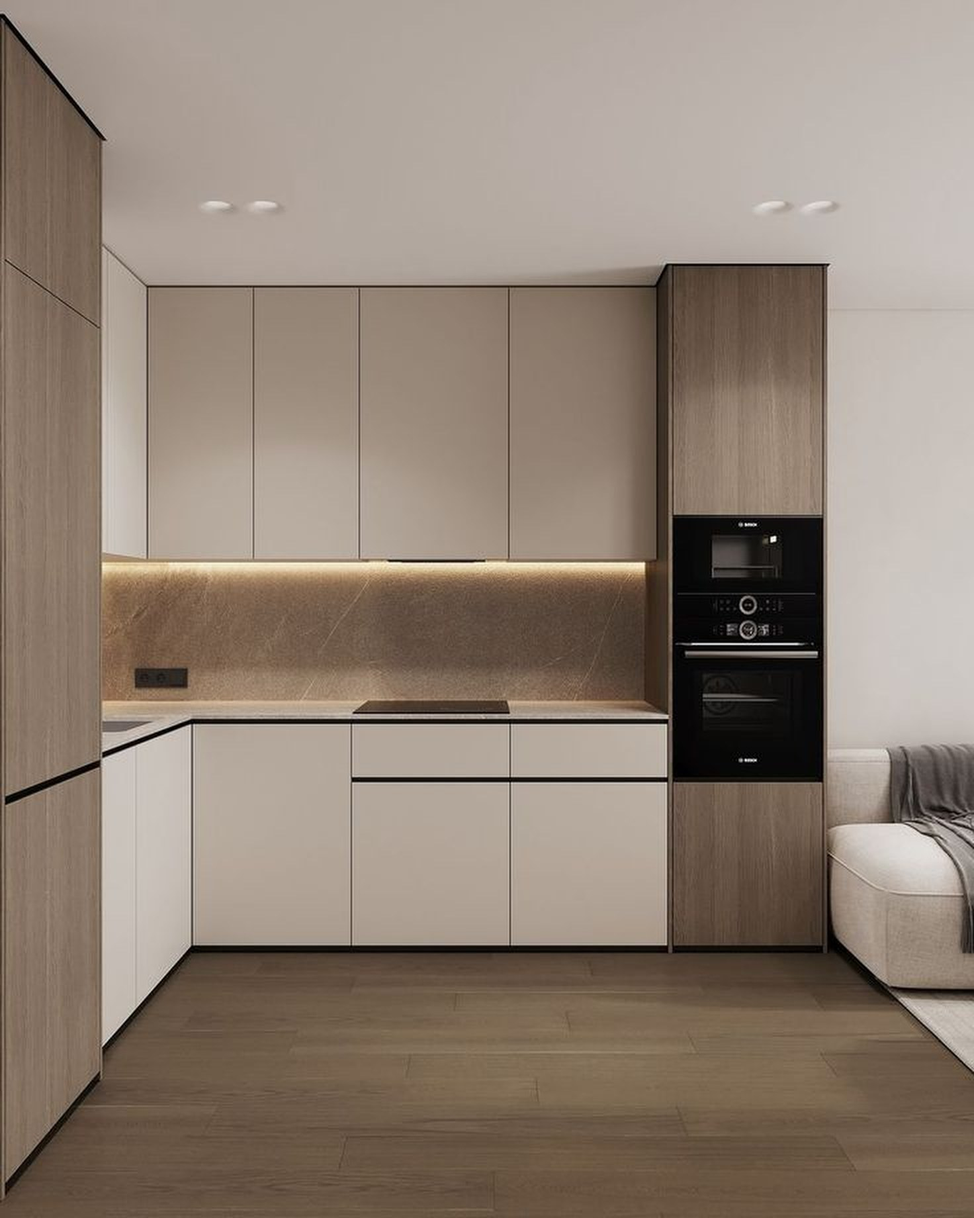
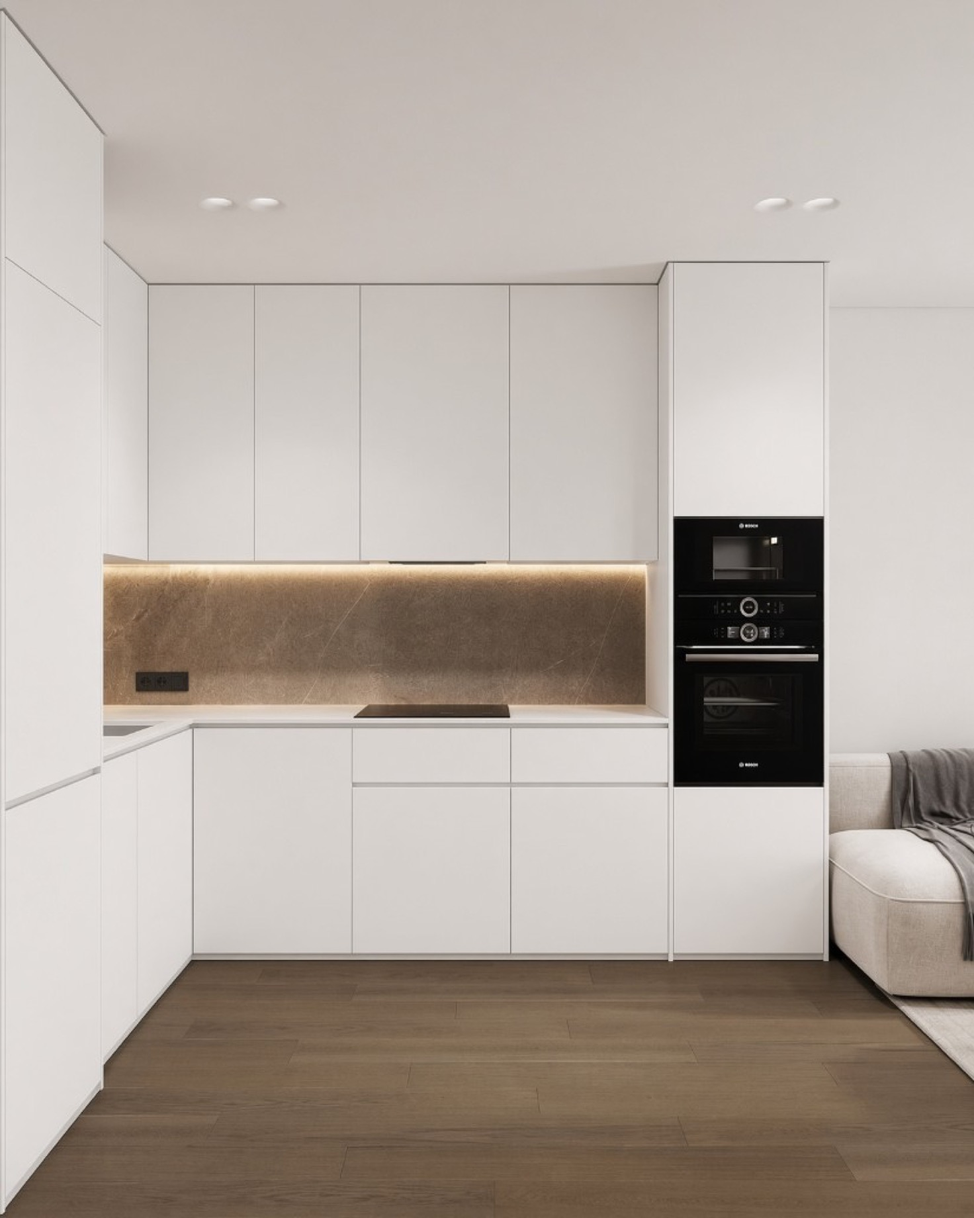
выбор фасадов на кухне

diff --git a/src/components/scene/KitchenTryOn.tsx b/src/components/scene/KitchenTryOn.tsx
@@ -2,9 +2,10 @@
 
 import { useEffect, useRef, useState } from "react";
 import { LeadForm } from "@/components/LeadForm";
+import { facades } from "@/lib/catalog";
 import { backsplashes, scenes, worktops, type KitchenScene, type Surface } from "@/lib/scenes";
 import ColorPicker from "@/components/ColorPicker";
-import { DemoPhotoBadge } from "@/components/InDevelopment";
+import { DemoPhotoBadge, DevPlaceholder } from "@/components/InDevelopment";
 import { swatchById } from "@/lib/palette";
 import { hexToLinear, prepare, render, type Prepared, type Target } from "@/lib/recolor";
 
@@ -28,6 +29,17 @@ function readPixels(img: HTMLImageElement): ImageData {
 
 const target = (hex: string | null, contrast: number, grain = false): Target | null =>
   hex ? { linear: hexToLinear(hex), contrast, grain } : null;
+
+/** Прямой фасад — базовое фото. Остальные — каталог фрезеровок, фото лежит в scene.variants. */
+const millings = [
+  { slug: "pryamoy", name: "Прямой" },
+  ...facades.filter((f) => f.category === "milled").map((f) => ({ slug: f.slug, name: f.name })),
+];
+
+function millingPhoto(scene: KitchenScene, slug: string): string | null {
+  if (slug === "pryamoy") return scene.base;
+  return scene.variants?.[slug] ?? null;
+}
 
 export default function KitchenTryOn() {
   const [sceneId, setSceneId] = useState(scenes[0].id);
@@ -62,8 +74,10 @@ function Stage({ scene }: { scene: KitchenScene }) {
   const canvasRef = useRef<HTMLCanvasElement>(null);
   const outRef = useRef<ImageData | null>(null);
   const [prepared, setPrepared] = useState<Prepared | null>(null);
+  const [preparedFor, setPreparedFor] = useState<string | null>(null);
   const [failed, setFailed] = useState(false);
 
+  const [millingSlug, setMillingSlug] = useState("pryamoy");
   const [facadeId, setFacadeId] = useState<string | null>(null);
   const [worktopId, setWorktopId] = useState("orig");
   const [backsplashId, setBacksplashId] = useState("orig");
@@ -71,27 +85,33 @@ function Stage({ scene }: { scene: KitchenScene }) {
   const [prefill, setPrefill] = useState("");
 
   // null — фасады как на фото
+  const milling = millings.find((m) => m.slug === millingSlug) ?? millings[0];
+  const photo = millingPhoto(scene, milling.slug);
   const facade = facadeId ? swatchById(facadeId) : null;
   const worktop = worktops.find((s) => s.id === worktopId)!;
   const backsplash = backsplashes.find((s) => s.id === backsplashId)!;
   const accent = accentId ? swatchById(accentId) : null;
 
   useEffect(() => {
+    if (!photo) return;
     let cancelled = false;
+    const src = photo;
     Promise.all([
-      loadImage(scene.base),
+      loadImage(src),
       loadImage(scene.masks),
       scene.masks2 ? loadImage(scene.masks2) : Promise.resolve(null),
     ])
       .then(([base, masks, accentMask]) => {
         if (cancelled) return;
+        setFailed(false);
         setPrepared(prepare(readPixels(base), readPixels(masks), accentMask ? readPixels(accentMask) : undefined));
+        setPreparedFor(src);
       })
       .catch(() => !cancelled && setFailed(true));
     return () => {
       cancelled = true;
     };
-  }, [scene]);
+  }, [scene, photo]);
 
   useEffect(() => {
     const canvas = canvasRef.current;
@@ -116,7 +136,7 @@ function Stage({ scene }: { scene: KitchenScene }) {
     ctx.putImageData(outRef.current, 0, 0);
   }, [prepared, facade, worktop, backsplash, accent]);
 
-  const summary = `Фасады: ${facade ? `${facade.code} ${facade.name}` : "как на фото"}; столешница: ${worktop.name}; фартук: ${backsplash.name}${scene.masks2 ? `; акцент: ${accent ? `${accent.code} ${accent.name}` : "как на фото"}` : ""}`;
+  const summary = `Фрезеровка: ${milling.name}; фасады: ${facade ? `${facade.code} ${facade.name}` : "как на фото"}; столешница: ${worktop.name}; фартук: ${backsplash.name}${scene.masks2 ? `; акцент: ${accent ? `${accent.code} ${accent.name}` : "как на фото"}` : ""}`;
 
   return (
     <div>
@@ -127,15 +147,20 @@ function Stage({ scene }: { scene: KitchenScene }) {
         >
           {/* Исходное фото видно сразу и без JS; канвас с перекраской ложится поверх */}
           {/* eslint-disable-next-line @next/next/no-img-element */}
-          <img src={scene.base} alt={scene.alt} width={scene.width} height={scene.height} className="absolute inset-0 h-full w-full" />
+          <img src={photo ?? scene.base} alt={scene.alt} width={scene.width} height={scene.height} className="absolute inset-0 h-full w-full" />
           <canvas
             ref={canvasRef}
             width={scene.width}
             height={scene.height}
             aria-hidden
-            className={`absolute inset-0 h-full w-full transition-opacity duration-300 ${prepared ? "opacity-100" : "opacity-0"}`}
+            className={`absolute inset-0 h-full w-full transition-opacity duration-300 ${prepared && preparedFor === photo ? "opacity-100" : "opacity-0"}`}
           />
           <DemoPhotoBadge className="left-3 top-3" />
+          {!photo && (
+            <div className="absolute inset-0 z-20">
+              <DevPlaceholder />
+            </div>
+          )}
           {failed && (
             <p className="absolute inset-x-0 bottom-0 bg-cocoa/80 p-3 text-center text-sm text-white">
               Не удалось загрузить примерочную. Попробуйте обновить страницу.
@@ -144,6 +169,30 @@ function Stage({ scene }: { scene: KitchenScene }) {
         </div>
 
         <div className="grid gap-8">
+          <Group title="Фрезеровка" hint={milling.name}>
+            {millings.map((m) => {
+              const ready = millingPhoto(scene, m.slug) !== null;
+              const active = m.slug === milling.slug;
+              return (
+                <button
+                  key={m.slug}
+                  type="button"
+                  role="radio"
+                  aria-checked={active}
+                  title={ready ? m.name : "Недоступно в демо-режиме"}
+                  onClick={() => {
+                    setFailed(false);
+                    setMillingSlug(m.slug);
+                  }}
+                  className={`rounded-full border px-4 py-2 text-sm font-medium transition-colors ${
+                    active ? "border-cocoa bg-cocoa text-white" : "border-cocoa/15 hover:border-cocoa"
+                  }`}
+                >
+                  {m.name}
+                </button>
+              );
+            })}
+          </Group>
           <div>
             <h2 className="mb-3 text-xs font-semibold uppercase tracking-[0.16em] text-cocoa/60">Цвет фасадов</h2>
             <ColorPicker value={facadeId} allowCustom={false} onChange={setFacadeId} onReset={() => setFacadeId(null)} />
@@ -183,7 +232,7 @@ function Stage({ scene }: { scene: KitchenScene }) {
         <div>
           <h2 className="text-3xl font-semibold leading-tight tracking-tight text-cocoa">Рассчитать стоимость</h2>
           <p className="mt-4 max-w-sm text-cocoa/70">
-            Выбранные цвета подставятся в заявку. Размеры и фрезеровку уточним по телефону.
+            Выбранные фрезеровка и цвета подставятся в заявку. Размеры уточним по телефону.
           </p>
         </div>
         <LeadForm key={prefill} facade={prefill} />

diff --git a/src/lib/review.ts b/src/lib/review.ts
@@ -86,9 +86,9 @@ export const reviewFeatures: ReviewFeature[] = [
     percent: 65,
     step: 5,
     href: "/kitchen",
-    what: "Фото кухни, на котором меняются цвет фасадов, акцентных колонн, столешницы и фартука. Свет и тени сохраняются.",
-    check: ["Реалистичность перекраски", "Нужна ли вам такая функция вообще", "Удобство выбора на телефоне"],
-    todo: ["Две демо-кухни с фото низкого разрешения, права на них не подтверждены", "Меняется только цвет, фрезеровку на фото сменить нельзя", "На очень тёмных и насыщенных цветах возможны артефакты", "На каждую новую кухню нужна ручная разметка"],
+    what: "Фото кухни: смена фрезеровки отдельным кадром, перекраска фасадов, акцентных колонн, столешницы и фартука. Свет и тени сохраняются.",
+    check: ["Реалистичность перекраски", "Кадры «Степ» и «Волна 1» на угловой кухне", "Удобство выбора на телефоне"],
+    todo: ["Две демо-кухни с фото низкого разрешения, права на них не подтверждены", "Со своим фото на угловой кухне только «Степ» и «Волна 1», остальные — «Недоступно в демо-режиме»", "На очень тёмных и насыщенных цветах возможны артефакты", "На каждую новую кухню и фрезеровку нужен свой кадр в том же ракурсе"],
     ask: ["Ваши фото кухонь от 2000 px", "Решение: нужна ли примерочная в первой версии"],
   },
   {

diff --git a/src/lib/offer.ts b/src/lib/offer.ts
@@ -93,9 +93,9 @@ const addonList = [
     group: "tryon",
     title: "Примерочная кухни",
     price: 15000,
-    what: "Страница с двумя готовыми кухнями (угловая и прямая): на фото меняются цвет фасадов, колонн, столешницы и фартука, свет и тени сохраняются.",
-    needs: "Подтверждение прав на фото или свои фото кухонь",
-    risk: "Права на текущие фото не подтверждены. На очень тёмных и насыщенных цветах возможны артефакты: перекраска математическая. Фрезеровку на фото сменить нельзя, меняется только цвет",
+    what: "Страница с двумя готовыми кухнями (угловая и прямая): смена фрезеровки отдельным кадром, перекраска фасадов, колонн, столешницы и фартука. Свет и тени сохраняются.",
+    needs: "Подтверждение прав на фото или свои фото кухонь. На каждую фрезеровку — кадр в том же ракурсе",
+    risk: "Права на текущие фото не подтверждены. На очень тёмных и насыщенных цветах возможны артефакты: перекраска математическая. В демо на угловой кухне свой кадр у «Степ» и «Волна 1»",
   },
   {
     id: "tryonScene",

diff --git a/src/lib/demoNotes.ts b/src/lib/demoNotes.ts
@@ -47,7 +47,7 @@ export const demoNotes = {
     what: "Фото кухни, на котором меняются цвет фасадов, колонн, столешницы и фартука. Свет и тени сохраняются.",
     inBase: "В минимум не входит: платная доработка.",
     addons: ["tryon", "tryonScene"],
-    risks: ["На каждую кухню нужны фото от 2000 px и ручная разметка", "Права на фото не подтверждены", "На очень тёмных и насыщенных цветах возможны артефакты", "Фрезеровку на фото сменить нельзя, меняется только цвет"],
+    risks: ["На каждую кухню нужны фото от 2000 px и ручная разметка", "Права на фото не подтверждены", "На очень тёмных и насыщенных цветах возможны артефакты", "На угловой кухне свой кадр у «Степ» и «Волна 1», остальные фрезеровки в демо недоступны"],
   },
   constructor: {
     title: "Конструктор кухни",

diff --git a/src/app/kitchen/page.tsx b/src/app/kitchen/page.tsx
@@ -17,9 +17,11 @@ export default function KitchenPage() {
         Примерить <span className="text-taupe">на кухне</span>
       </h1>
       <p className="mt-5 mb-10 max-w-xl text-lg text-cocoa/70">
-        Выберите цвет фасадов, столешницу и фартук. Свет и тени на фото остаются настоящими.
+        Выберите фрезеровку, цвет фасадов, столешницу и фартук. Свет и тени на фото остаются настоящими.
       </p>
-      <DemoNotice>В демо доступны две кухни, фото на них временные, над картинками ещё будет работа. Смена фрезеровки на фото в разработке: меняется только цвет.</DemoNotice>
+      <DemoNotice>
+        В демо доступны две кухни, фото на них временные. На угловой кухне можно посмотреть «Степ» и «Волна 1», остальные фрезеровки пока недоступны в демо-режиме.
+      </DemoNotice>
       <KitchenTryOn />
     </div>
   );

diff --git a/src/lib/scenes.ts b/src/lib/scenes.ts
@@ -15,6 +15,11 @@ export type KitchenScene = {
   /** Маска акцентных зон, если они размечены в сцене */
   masks2?: string;
   accentLabel?: string;
+  /**
+   * Другие фото той же кухни: ключ — slug фрезеровки из каталога.
+   * «Прямой» всегда берётся из base. Нет файла — в демо фрезеровка недоступна.
+   */
+  variants?: Record<string, string>;
   width: number;
   height: number;
   alt: string;
@@ -28,6 +33,10 @@ export const scenes: KitchenScene[] = [
     masks: "/scenes/corner-1/masks.png",
     masks2: "/scenes/corner-1/masks2.png",
     accentLabel: "Акцент: колонны",
+    variants: {
+      step: "/scenes/corner-1/step.jpg",
+      "volna-1": "/scenes/corner-1/volna-1.jpg",
+    },
     width: 1472,
     height: 1840,
     alt: "Угловая кухня с светлыми безручковыми фасадами",

diff --git a/docs/kitchen-tryon.md b/docs/kitchen-tryon.md
@@ -6,8 +6,8 @@
 
 Берём фотографию кухни, размечаем на ней зоны и перекрашиваем их в браузере. Свет, тени и швы остаются от оригинального фото, а цвет приходит из палитры. Так выбран **вариант A** из обсуждения: приоритет у фотореализма, а не у точной геометрии.
 
-Что можно менять: основные фасады, акцентные колонны (если размечены), столешницу, фартук.
-Что **нельзя**: фрезеровку, матовое или глянцевое покрытие и отражения. Они зашиты в фото. Для другой фрезеровки нужна отдельная сцена.
+Что можно менять: фрезеровку (если для этой кухни есть отдельное фото), основные фасады, акцентные колонны (если размечены), столешницу, фартук.
+Матовое или глянцевое покрытие и отражения зашиты в фото. Новая фрезеровка — это ещё один файл той же сцены в `variants`, с тем же ракурсом, чтобы подошли уже готовые маски. Если файла нет, примерочная показывает заглушку «В разработке» / «Недоступно в демо-режиме».
 
 ## Как работает перекраска
 
@@ -40,7 +40,7 @@
 - `masks.png`: R — фасады, G — столешница, B — фартук (яркость равна степени принадлежности).
 - `masks2.png`: R — акцентные зоны (необязательно).
 
-Сцены перечислены в `src/lib/scenes.ts` (размеры картинки обязательны). Поле `masks2` включает блок «Акцент» в интерфейсе, `accentLabel` задаёт его заголовок.
+Сцены перечислены в `src/lib/scenes.ts` (размеры картинки обязательны). Поле `masks2` включает блок «Акцент» в интерфейсе, `accentLabel` задаёт его заголовок. Поле `variants` — фото других фрезеровок той же кухни, ключ совпадает со `slug` в каталоге (`step`, `premier`, …). Базовое фото — это прямой фасад. Картинка варианта должна быть того же размера, что `base.jpg`, иначе маска съедет.
 
 ## Как добавить сцену
 
@@ -70,8 +70,8 @@
 
 | id | Название | Исходник | Особенности |
 |---|---|---|---|
-| `corner-1` | Угловая кухня | 736×920, увеличено вдвое | Есть акцентные колонны (шпон) |
-| `straight-1` | Прямая кухня | 564×690 из PDF, увеличено вдвое | Серые фасады, тёмный гранит, без акцентов |
+| `corner-1` | Угловая кухня | 736×920, увеличено вдвое | Есть акцентные колонны (шпон). В `variants`: `step`, `volna-1` (кадры приведены к 1472×1840) |
+| `straight-1` | Прямая кухня | 564×690 из PDF, увеличено вдвое | Серые фасады, тёмный гранит, без акцентов. Отдельных фрезеровок нет |
 
 ## Ограничения
 

diff --git a/docs/mvp.md b/docs/mvp.md
@@ -7,7 +7,7 @@
 - Сайт на Next.js с SSR/статической генерацией страниц: главная, каталог, карточка фасада, примерочная кухни.
 - Каталог из 25 позиций, перенесённых из PDF заказчика: прямой фасад, 13 фрезеровок, 8 вариантов интегрированной ручки, 2 радиусных, столешница.
 - **3D-вьюер для 7 позиций:** прямой, Премьер, Степ, Баден, Кант, Волна 1, Рейки. Фасад строится по профилю сечения; доступны вращение, выбор цвета по вкладкам RAL / NCS / Wood Color / «Подбор» (27 образцов), матовое или глянцевое покрытие, ползунки ширины, высоты и толщины.
-- **Примерочная кухни** с двумя сценами («Угловая кухня», «Прямая кухня»): независимый выбор цвета основных фасадов, акцентных колонн (только в угловой), столешницы и фартука.
+- **Примерочная кухни** с двумя сценами («Угловая кухня», «Прямая кухня»): выбор фрезеровки, цвета основных фасадов, акцентных колонн (только в угловой), столешницы и фартука. В демо со своим фото «Прямой» и на угловой кухне «Степ» и «Волна 1». Остальные фрезеровки показывают заглушку «Недоступно в демо-режиме».
 - Форма заявки с валидацией на сервере и скрытым полем-ловушкой для ботов. В заявку подставляются выбранные фасад или цвета.
 - Дизайн на основе PDF: монохромная палитра, Montserrat, диагональный срез как фирменный мотив. Адаптив проверен на десктопе и в мобильном размере.
 
@@ -33,7 +33,7 @@
 - Фасады в плёнке ПВХ и покраска как отдельные разделы: в PDF нет материалов.
 - Страницы услуг, портфолио, «о производстве».
 - 3D для остальных 18 позиций каталога (см. [facade-3d.md](facade-3d.md)): 7 фрезеровок, 8 ручек, 2 радиусных, столешница.
-- Смена фрезеровки на примерочной: на фото меняется только цвет (см. [kitchen-tryon.md](kitchen-tryon.md)).
+- Фото остальных фрезеровок в примерочной (см. [kitchen-tryon.md](kitchen-tryon.md)): на угловой кухне пока только «Степ» и «Волна 1».
 - Аналитика, SEO-разметка (JSON-LD), sitemap, Open Graph-картинки, политика конфиденциальности и согласие на обработку персональных данных.
 - Автотесты.
 

diff --git a/docs/decisions.md b/docs/decisions.md
@@ -23,7 +23,7 @@
   - C: фотореалистичные рендеры от 3D-художника с перекраской (дорого и долго, но лучший результат);
   - D: генерация нейросетью (отвергнута: нет контроля над точностью профиля и цвета, для производителя это риск).
 - **Почему A:** заказчик в первую очередь хотел «как в журнале», а не точную геометрию; реализация простая и быстрая; расширение сцены это новое фото плюс разметка.
-- **Цена решения:** нельзя менять фрезеровку и покрытие на самом фото. Для каждой фрезеровки нужна отдельная сцена.
+- **Цена решения:** покрытие и отражения зашиты в фото. Фрезеровка меняется сменой готового кадра той же кухни (`variants` в `scenes.ts`), а не перерисовкой рельефа. В демо на угловой кухне такие кадры есть для «Степ» и «Волна 1».
 - **Пересмотреть:** если заказчик захочет менять фрезеровку на одной сцене, то нужен B (или C для премиальной версии).
 
 ## 4. Каталог живёт в коде
